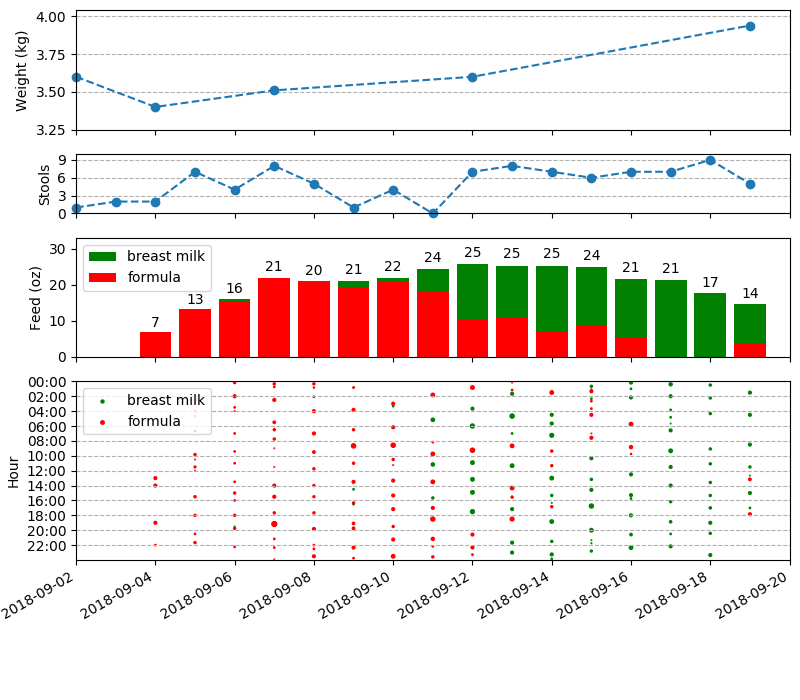
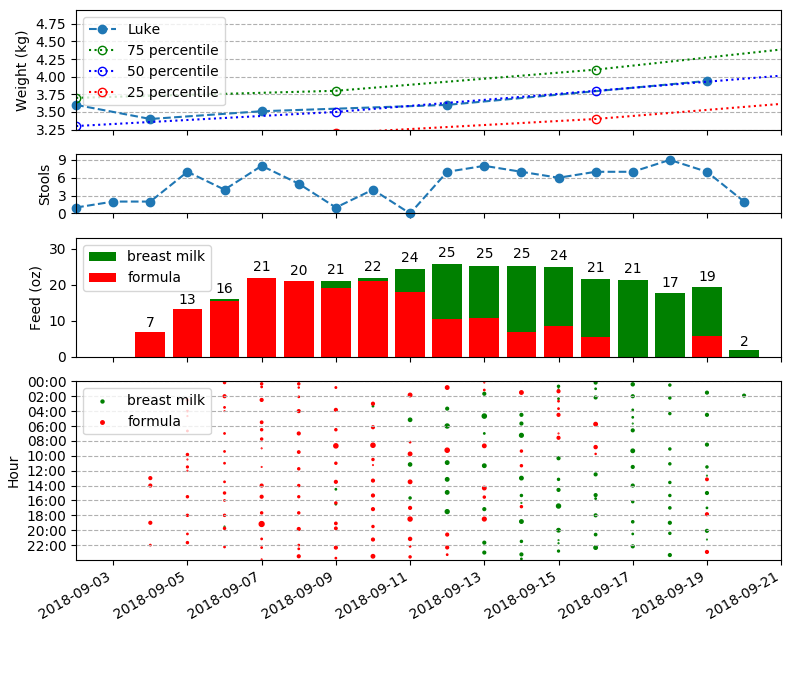
add WHO weight guideline

diff --git a/analyze.py b/analyze.py
@@ -14,7 +14,7 @@ from matplotlib import gridspec
 
 import utils
 
-# load data
+# ------------- load data ---------------------------------
 data_type = {'BM': bool}
 df1 = pd.read_csv(
     'feed.csv',
@@ -36,9 +36,17 @@ df2.rename(
         'Weight (kg)': 'Weight'
     }, inplace=True)
 
+weight_guide = pd.read_csv(
+    'WHO_weight_guideline_boy_13weeks.txt',
+    index_col=0,
+    delim_whitespace=True,
+)
+
+# ----------- figure setup --------------------------------
 fig = plt.figure(figsize=(8, 7))
 gs = gridspec.GridSpec(nrows=4, ncols=1, height_ratios=[2, 1, 2, 3])
 dates = df2.index.date
+one_day = datetime.timedelta(days=1)
 
 # ----------- plot daily stool count -----------------------
 ax2 = fig.add_subplot(gs[1])
@@ -52,11 +60,35 @@ plt.ylim([0, max(df2.Stool.values) + 1])
 # ----------- plot weight change -----------------------
 ax1 = fig.add_subplot(gs[0], sharex=ax2)
 weight = df2.Weight.dropna()
-plt.plot(weight.index.date, weight.values, 'o--', clip_on=False)
+plt.plot(weight.index.date, weight.values, 'o--', clip_on=False, label='Luke')
 plt.ylabel('Weight (kg)')
 utils.set_y_major(0.25)
 ax1.grid(True, axis='y', linestyle='--')
-plt.ylim([3.25, max(weight.values) + 0.1])
+plt.ylim([3.25, max(weight.values) + 1])
+
+# plot percentile guide
+guide_date = [
+    weight.index.date[0] + 7 * one_day * i for i in weight_guide.index
+]
+plt.plot(
+    guide_date,
+    weight_guide.P75.values,
+    'go:',
+    fillstyle='none',
+    label='75 percentile')
+plt.plot(
+    guide_date,
+    weight_guide.P50.values,
+    'bo:',
+    fillstyle='none',
+    label='50 percentile')
+plt.plot(
+    guide_date,
+    weight_guide.P25.values,
+    'ro:',
+    fillstyle='none',
+    label='25 percentile')
+plt.legend(loc='upper left')
 
 # ----------- plot daily feeding quantity --------------------
 ax3 = fig.add_subplot(gs[2], sharex=ax2)
@@ -111,7 +143,6 @@ plt.tight_layout(
     w_pad=0,
     h_pad=0,
 )
-one_day = datetime.timedelta(days=1)
 plt.xlim([dates[0], dates[-1] + one_day])
 fig.autofmt_xdate()
 plt.savefig('image.png')
